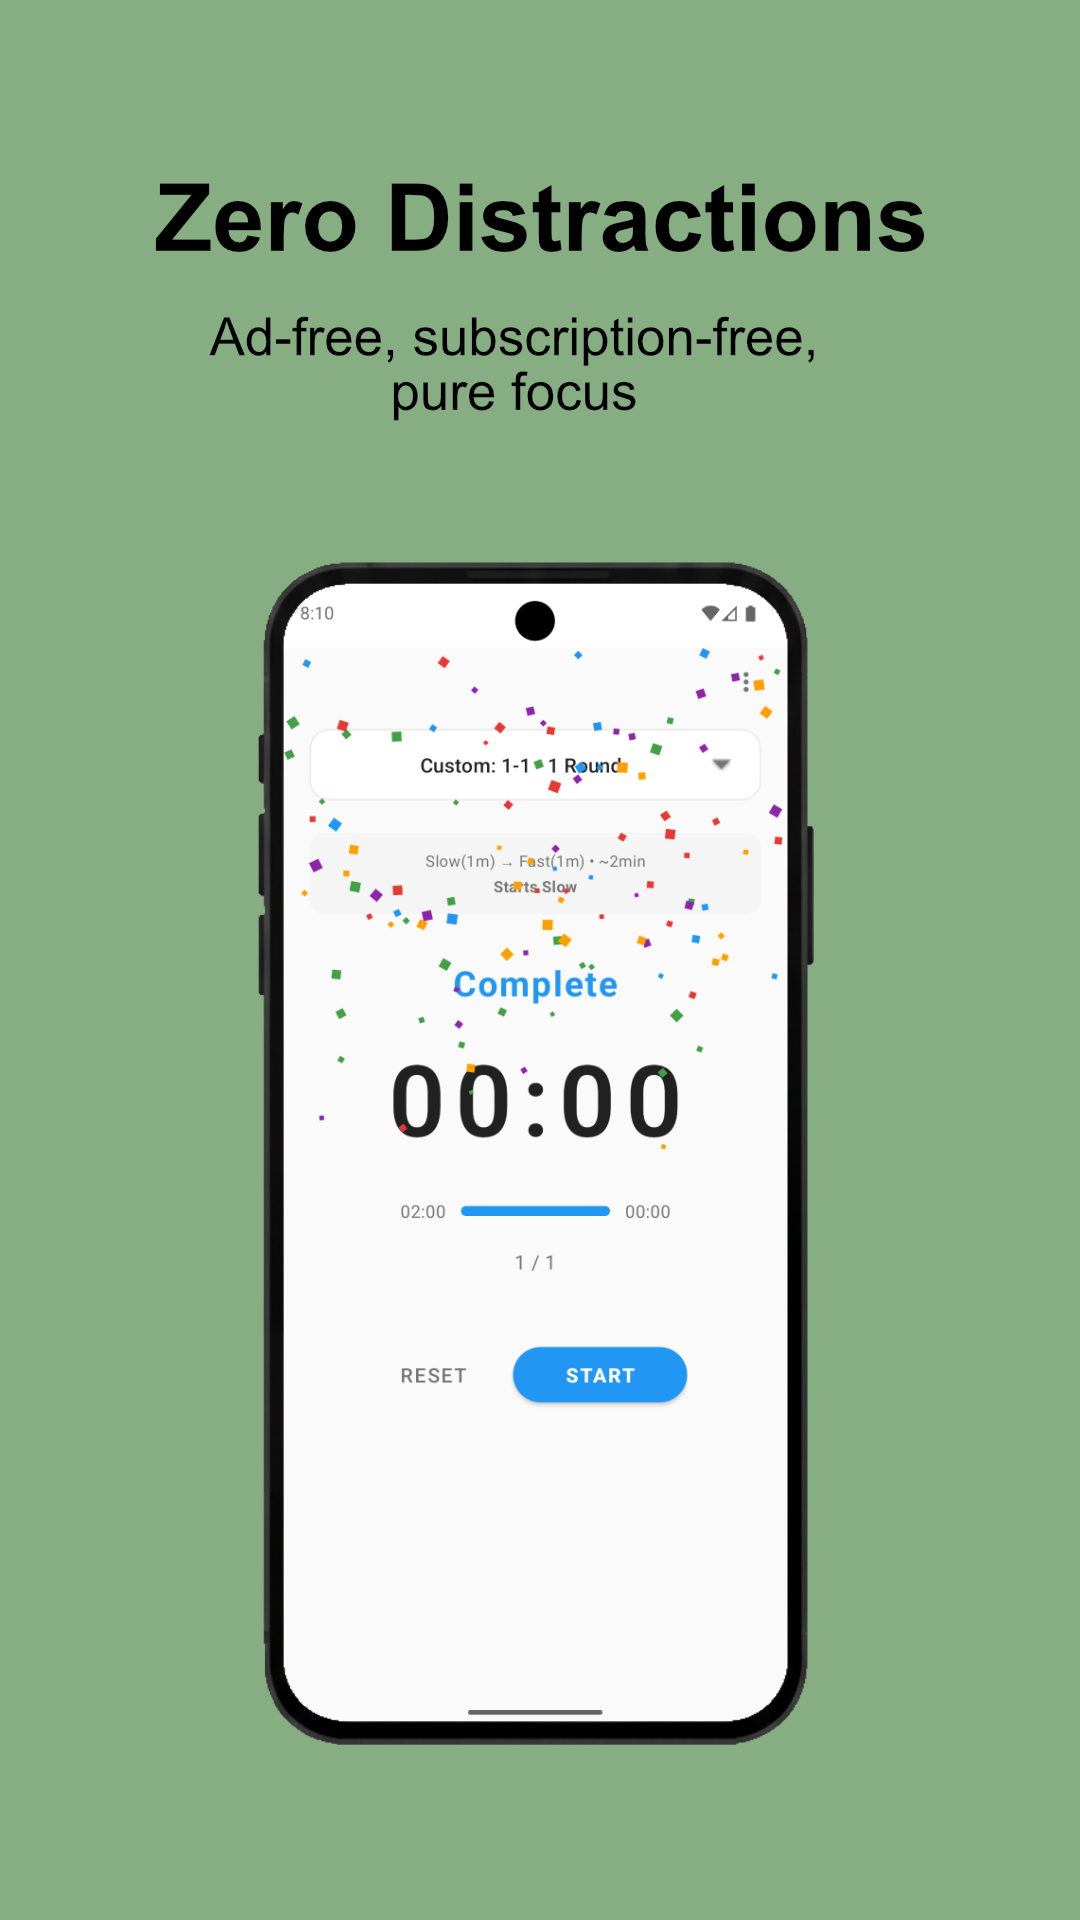
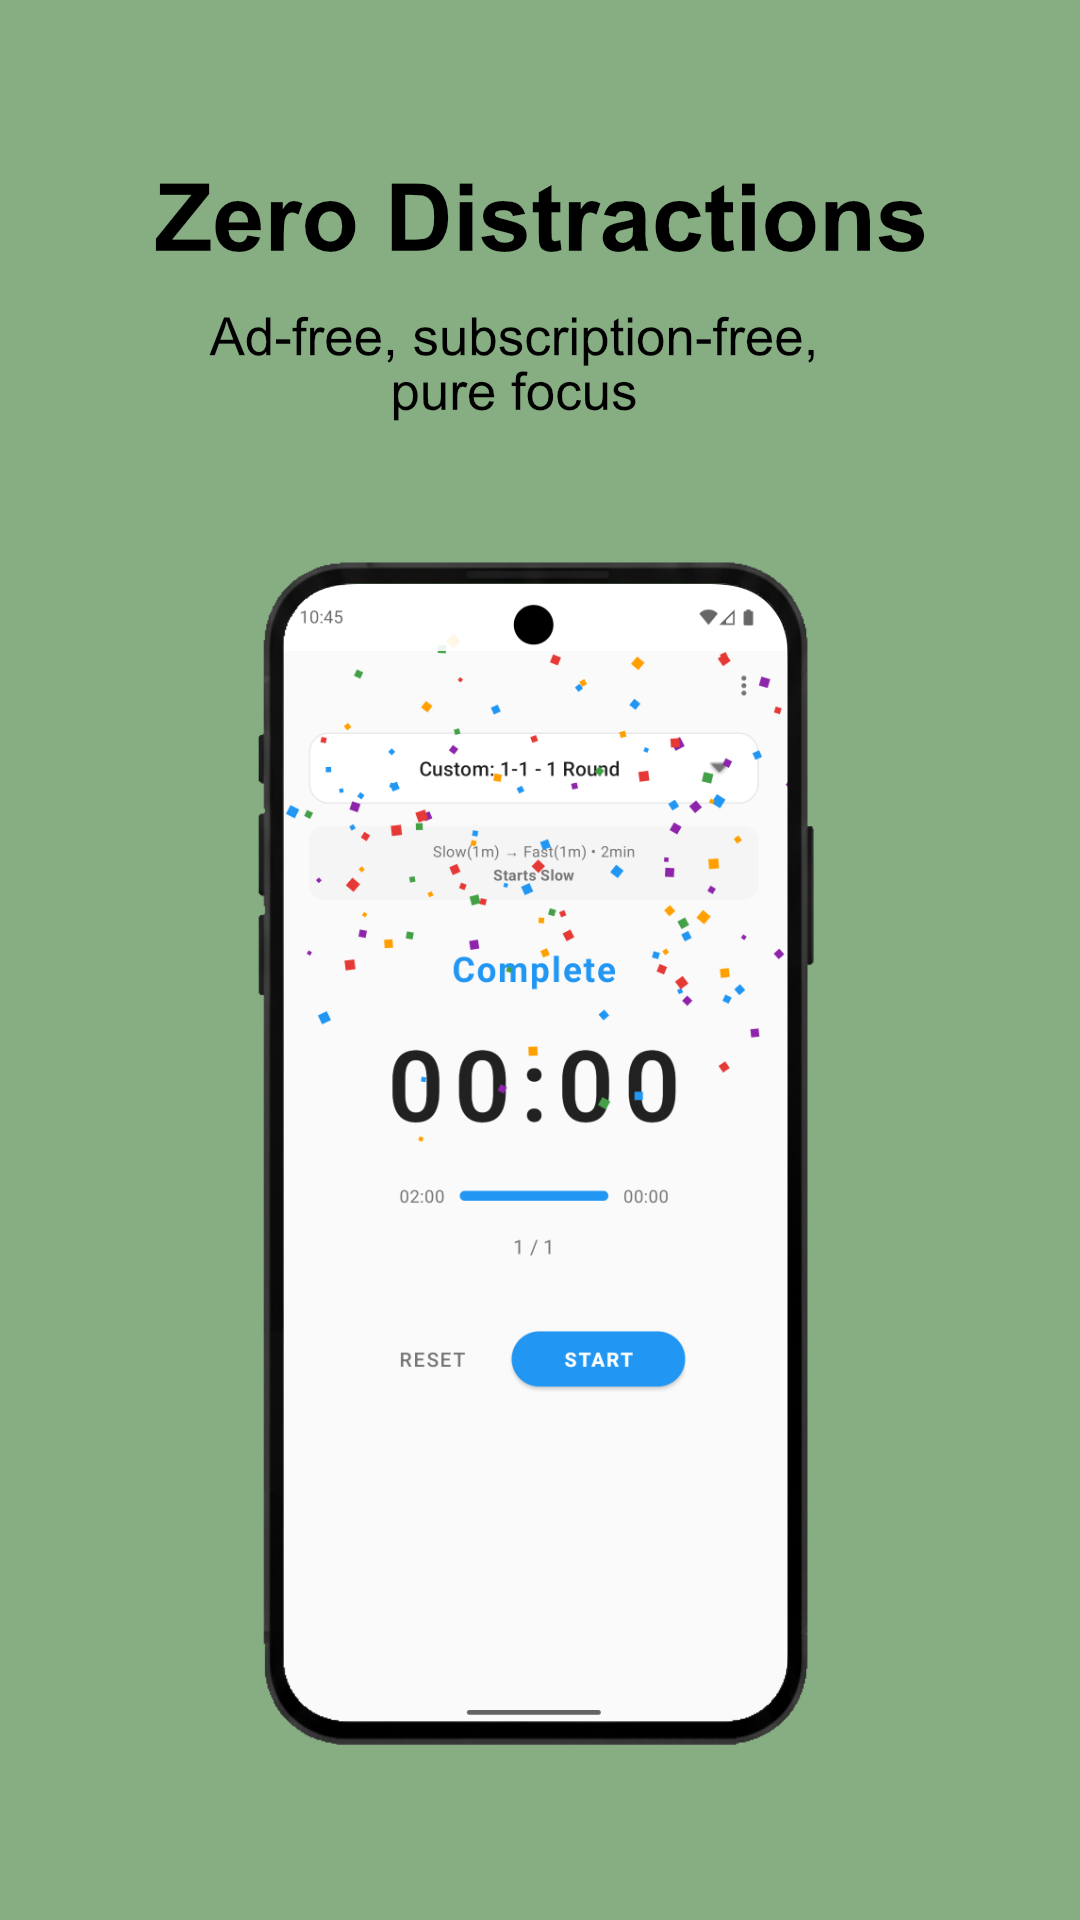
chore(release): v1.0.12
Minor Ux refinements and removal of .idea folder from git

diff --git a/CHANGELOG.md b/CHANGELOG.md
@@ -2,6 +2,19 @@
 
 ## Version 1
 
+### 1.0.12 - 2026-02-25
+
+#### UI/UX Improvements
+
+- Tightened vertical spacing between the formula selector button and the formula summary.
+- Formula summary no longer uses "~" before duration (value is exact, not approximate).
+- Formula summary layout adjusted to reduce multiline wrapping on smaller devices: slightly smaller text (12sp), reduced horizontal padding, tighter line spacing, and `breakStrategy="simple"` to prefer keeping the first line full.
+- Store screenshot and promo images updated.
+
+#### Chore
+
+- Stopped tracking `.idea/` in git and added it to `.gitignore`.
+
 ### 1.0.11 - 2026-02-26
 
 #### UI/UX Improvements
